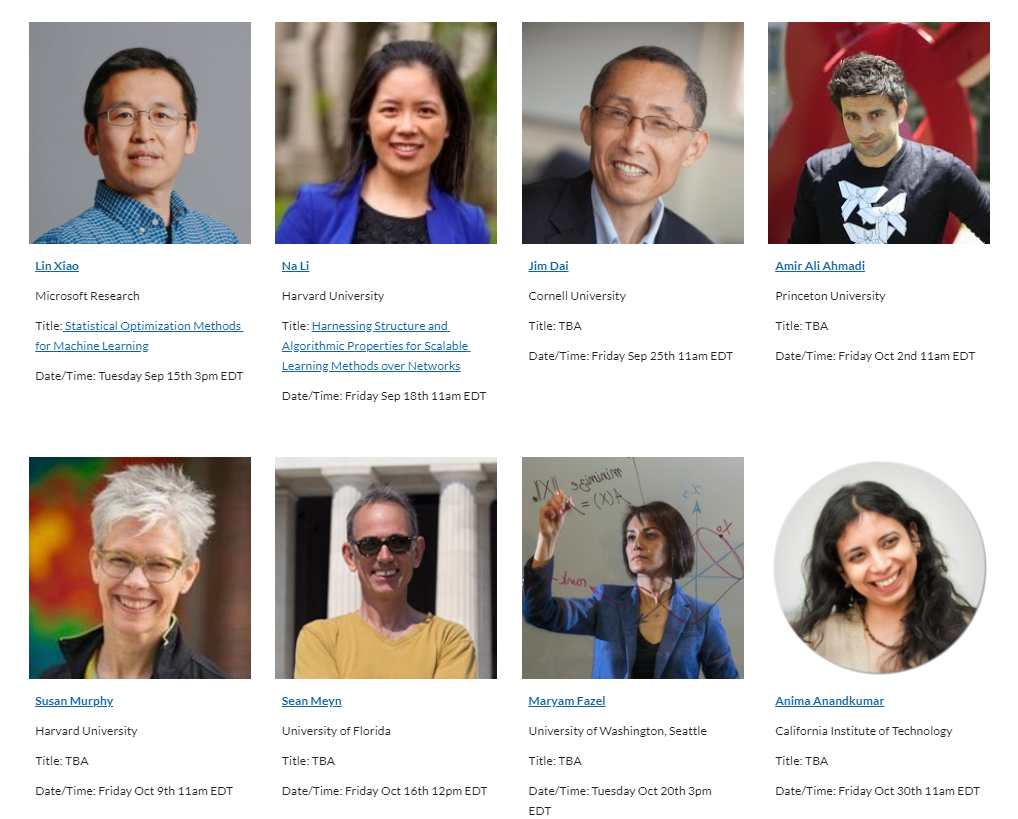
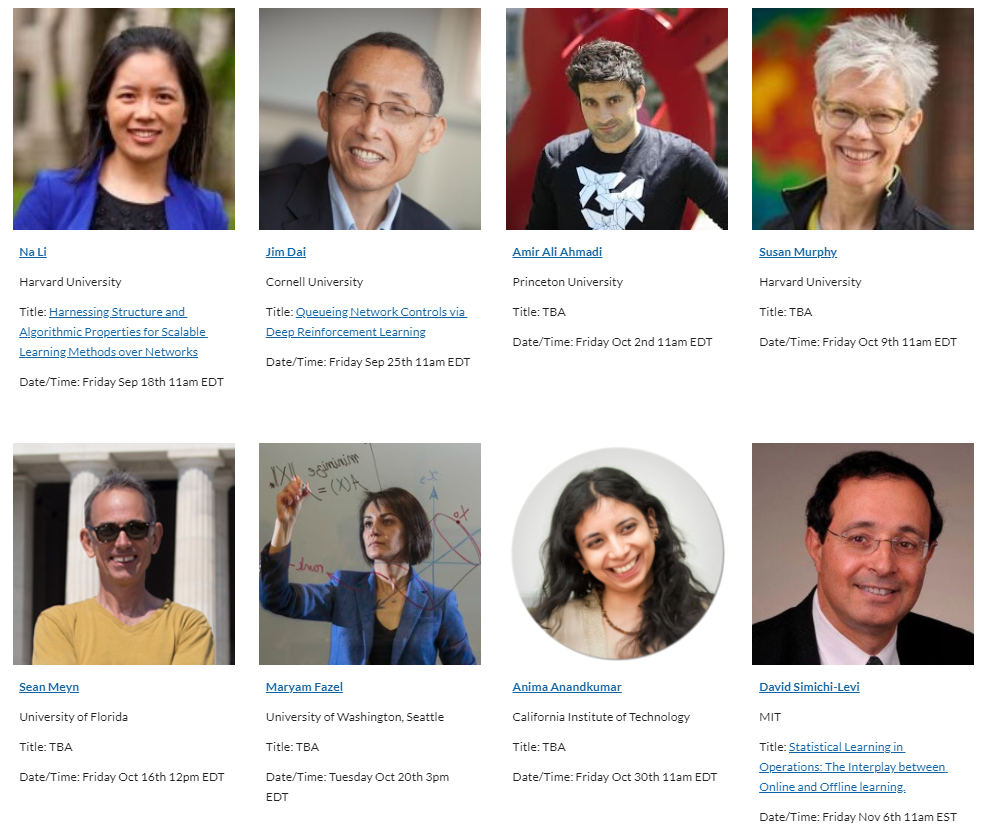
Update Math-for-DS.md

diff --git a/_projects/Math-for-DS.md b/_projects/Math-for-DS.md
@@ -21,15 +21,17 @@ To ask the speaker a question, please use the Q&A function in Zoom to type your 
 
 ## Next speaker
 
- <p align="center"><img width="20%" src="/images/news/MathDS/xiao.jpg" /></p>
+ <p align="center"><img width="20%" src="/images/news/MathDS/nali.jpg" /></p>
 
-##### **Next Speaker:** [**Microsoft Research**](https://www.microsoft.com/en-us/research/people/lixiao/), Microsoft Research
-##### **Date/Time:** Tuesday, September 15th, 3pm EDT [**[Zoom Link]**](https://psu.zoom.us/j/95512102924) [**[Facebook Link]**](https://www.facebook.com/events/788146932025642)
-##### **Title:** Statistical Optimization Methods for Machine Learning
+##### **Next Speaker:** [**Na Li**](https://nali.seas.harvard.edu/), Harvard University
+##### **Date/Time:** Friday, September 18th, 11am EDT [**[Zoom Link]**](https://psu.zoom.us/j/95512102924) [**[Facebook Link]**](https://www.facebook.com/events/315562789534359)
+##### **Title:** Harnessing structure and algorithmic properties for scalable learning methods over networks
 
-**Abstract:** Statistics and optimization are two of the foundational pillars of machine learning, and it is well recognized that optimization provides powerful tools for statistics. In recent years, techniques of the complementary nature, i.e., using statistics to improve optimization algorithms, have become increasingly successful. In this talk, we present several recent works on such statistical optimization methods. First, we discuss how to use statistical hypothesis testing to automatically adjust the learning rate of stochastic gradient methods in training deep neural networks. Then we overview some recent advances in structured nonconvex optimization using stochastic variance reduction techniques. Finally we will briefly explain how to leverage statistical preconditioning to accelerate distributed optimization.
+**Abstract:** Recent radical evolution in distributed sensing, computation, communication, and actuation has fostered the emergence of cyber-physical networked systems, across a broad spectrum of engineering and societal fields. One major challenge is how to shape the network collective behavior through the design of scalable decision-making algorithms for individual components. In this talk, I will present two lines of work to demonstrate how to exploit special properties for scalable solutions. First, I will present our recent scalable multiagent reinforcement learning algorithms which only use local sensing and communication yet learn nearly-optimal localized policies for the global network. The key of the algorithm design is to exploit the network connectivity property. Then I will present our limited communication distributed learning methods that compress the communicated information of a linear-convergent algorithm to a few bits while still preserving the linear convergence. The key of the compression is to exploit the linear convergence and smoothness.
 
-**Bio:** Lin Xiao is a senior principal researcher at Microsoft Research located in Redmond, Washington, US. He received his PhD from Stanford University, and was a postdoctoral fellow at California Institute of Technology before joining Microsoft. He currently serves as an associate editor for the SIAM Journal on Optimization, and has served as area chairs for several machine learning conferences including NeurIPS and ICML. He was a winner of the Young Researcher Competition at the first International Conference on Continuous Optimization in 2004 for his work on fastest mixing Markov chains, and won the Test of Time Award at NeurIPS 2019 for his work on the regularized dual averaging method for sparse stochastic optimization. His current research interests include theory and algorithms for large-scale optimization and machine learning, reinforcement learning, and parallel and distributed computing.
+First part is the joint work with Guannan Qu and Adam Wierman. Second part is the joint work with Sindri Magnusson and Hossein Shokri-Ghadikolaei
+
+**Bio:** Na Li is a Gordon McKay professor in Electrical Engineering and Applied Mathematics at Harvard University.  She received her Bachelor degree in Mathematics from Zhejiang University in 2007 and Ph.D. degree in Control and Dynamical systems from California Institute of Technology in 2013. She was a postdoctoral associate at Massachusetts Institute of Technology 2013-2014. She has joined Harvard University since 2014. Her research lies in control, learning, and optimization of networked systems, including theory development, algorithm design, and applications to real-world cyber-physical societal system. She serves as an associate editor for IEEE transactions on automatic control and Systems &  Control Letters and has been in the organizing committees for various conferences. She received NSF career award (2016), AFSOR Young Investigator Award (2017), ONR Young Investigator Award(2019),  Donald P. Eckman Award (2019), McDonald Mentoring Award (2020), along with some other awards.
 
 
 ## Upcoming Speakers
